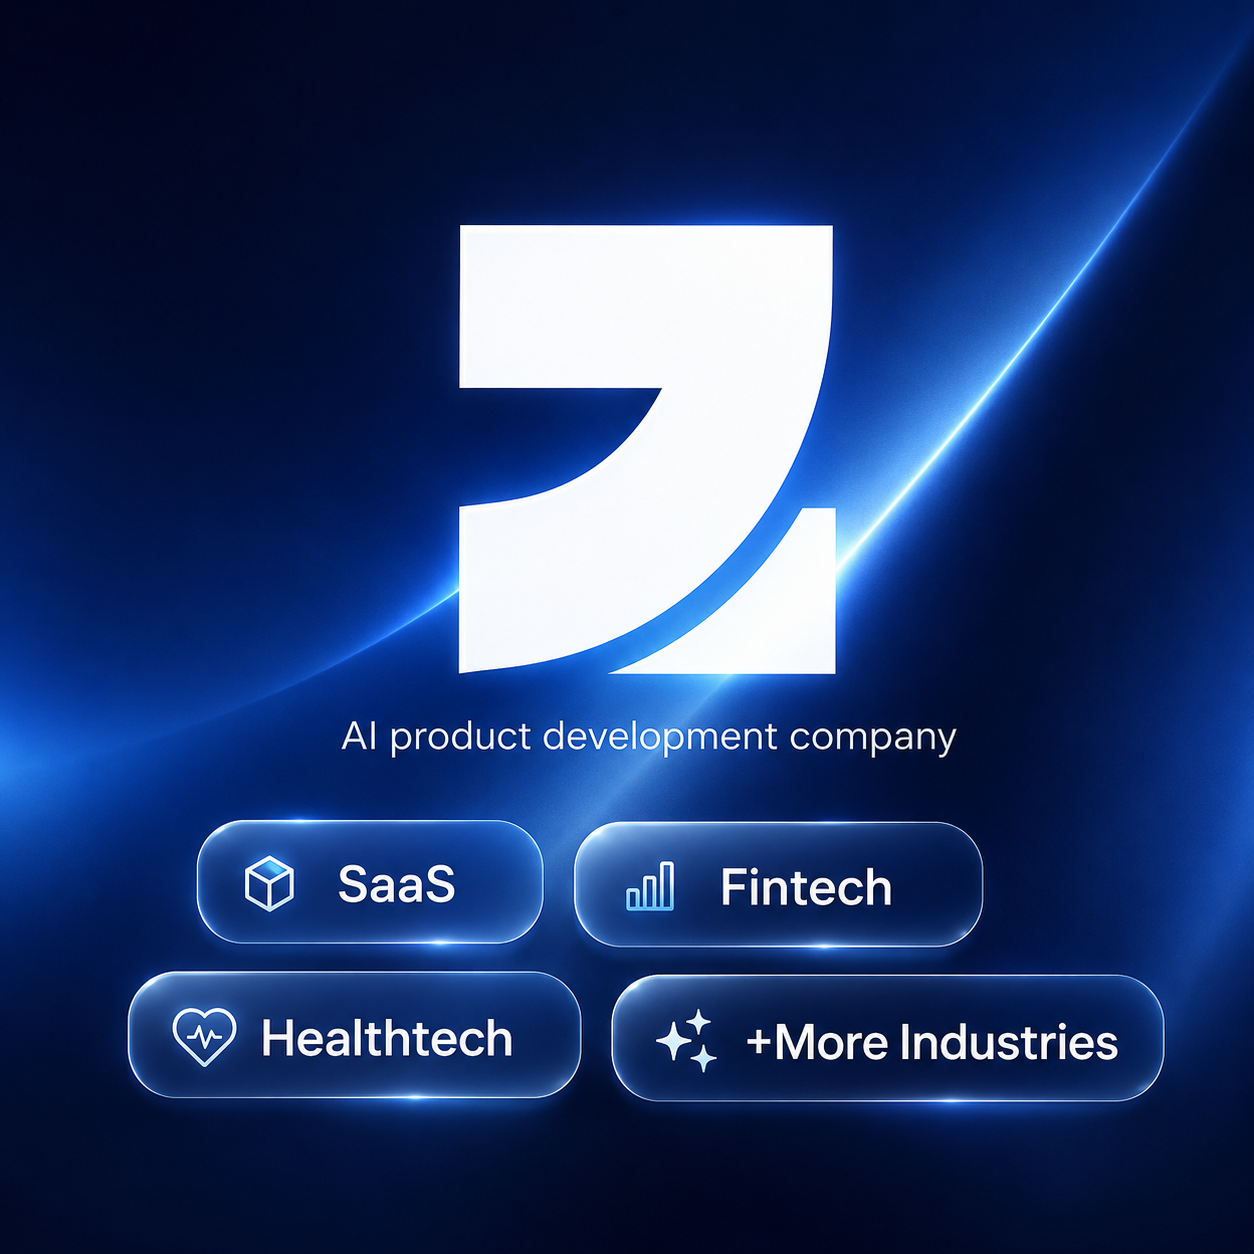
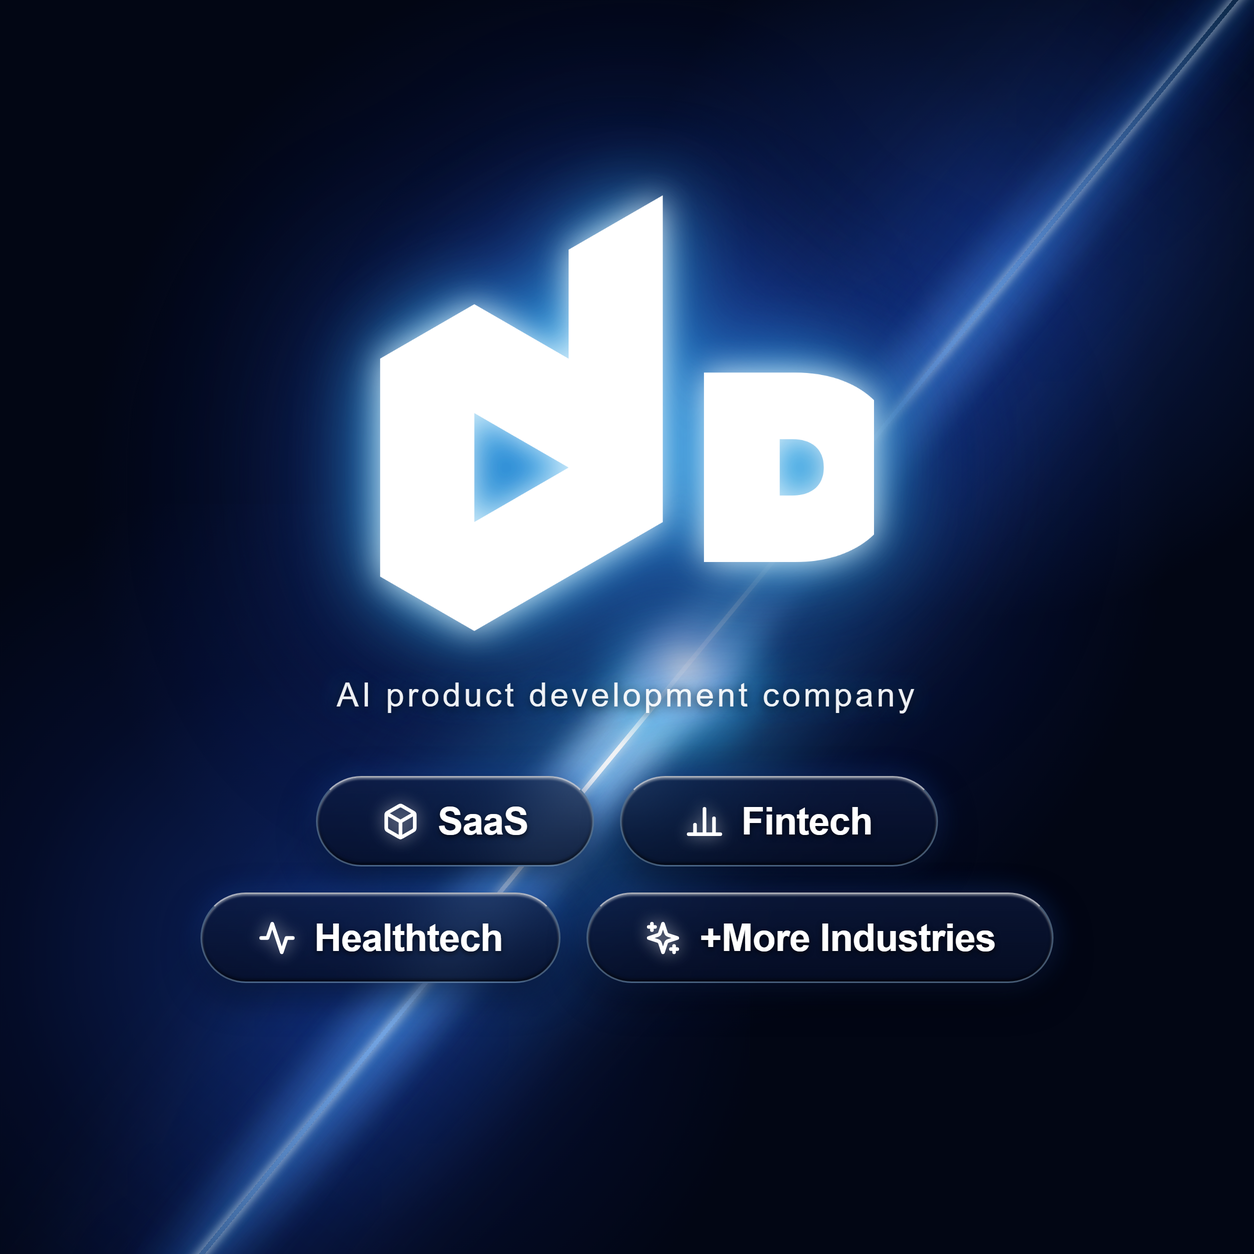
feat: replace service card with 8K illustrator-grade Devorica studio graphic and refine pricing alignment

diff --git a/src/components/PricingSection.jsx b/src/components/PricingSection.jsx
@@ -277,7 +277,7 @@ export default function PricingSection({ onOpenProjectRequest, onOpenCalendly })
                 </div>
 
                 {/* Ideal for */}
-                <p className="mt-3 font-vietnam text-sm leading-relaxed text-[#D1D1D1] min-h-[44px]">
+                <p className="mt-3 font-vietnam text-sm leading-relaxed text-[#D1D1D1] min-h-[44px] md:min-h-[66px]">
                   {pkg.ideal}
                 </p>
 
@@ -293,7 +293,7 @@ export default function PricingSection({ onOpenProjectRequest, onOpenCalendly })
                     <span className="font-vietnam text-xs text-[#A0A0A0] lg:text-sm">
                       Estimated Range
                     </span>
-                    <div className="mt-1 flex items-baseline gap-1.5 flex-wrap min-h-[38px]">
+                    <div className="mt-1 flex items-baseline gap-1.5 flex-wrap min-h-[38px] lg:min-h-[42px]">
                       <span className="font-switzer font-semibold text-2xl lg:text-[26px] xl:text-[28px] text-white tracking-tight">
                         {pkg.price}
                       </span>
